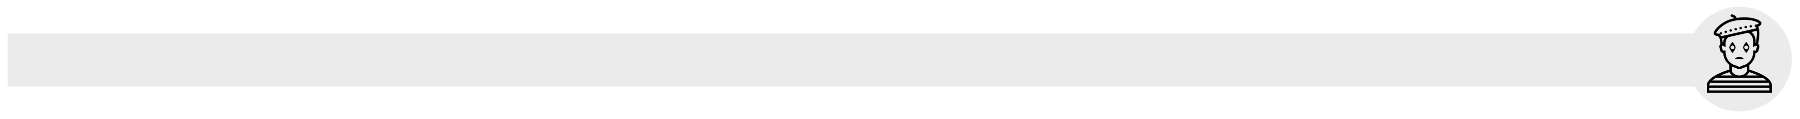
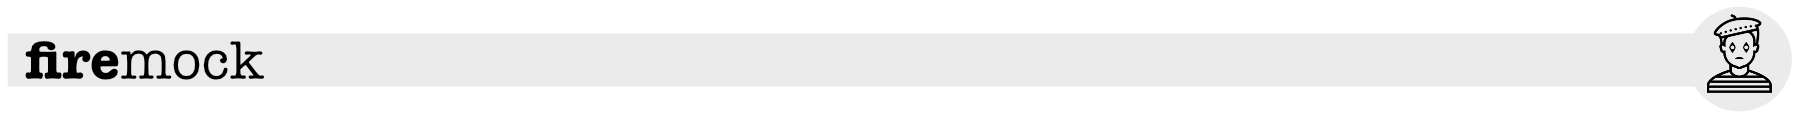
api write ops example

Changed region(s): [[0.0, 0.3529, 0.1556, 0.6807], [0.1244, 0.3529, 0.1556, 0.3782]]

diff --git a/docs/api.md b/docs/api.md
@@ -60,6 +60,36 @@ So now you start to see that filters like startAt, endAt, and equalTo are usable
 
 ## Writing to the Database {#writing}
 
+When we started talking about _schemas_ and _generation_, this was in essence a bulk way of writing data to the database. While this is typically done for initializing "state" into a desireable starting point it is not useful for testing Firebase code as this is not represented in Firebase's API. 
+
+For those of you Firebase ace's the API endpoints we are concerned about when writing to the database include operations such as: `set()`, `update()`, `push()`, and `remove()`. A simple example of this might fall along these lines:
+
+```js
+const m = new Mock();
+
+before(async () => {
+  m.addSchema('customer', (h) => () => {
+    first: h.faker.name.firstName(),
+    last: h.faker.name.firstName(),
+    email: h.chance.email(),
+    address: h.chance.address()
+  });
+  m.queueSchema('customer', 10);
+  m.generate();
+});
+
+it('pushing a new customer works', async () => {
+  await m.ref('customers').push({
+    first: 'John',
+    last: 'Smith',
+    email: 'john.smith@acme.com'
+  });
+  const customers = await m.ref('customers').once('value');
+  expect(customers.numChildren).to.equal(11);
+}
+```
+
+This test isn't the best but hopefully it illustrates the use of the write-based `push` API used to push a new customer record into the mock database.
 
 ## Other Features {#other}
 

diff --git a/docs/related.md b/docs/related.md
@@ -1,3 +1,5 @@
+![header](images/firemock-header.jpg)
+
 # Related Repos
 
 The **firemock** database sits alongside a number of other Firebase related modules that I've developed. I've put these under the GitHub organization "ForestFire" and you can find them all here:
